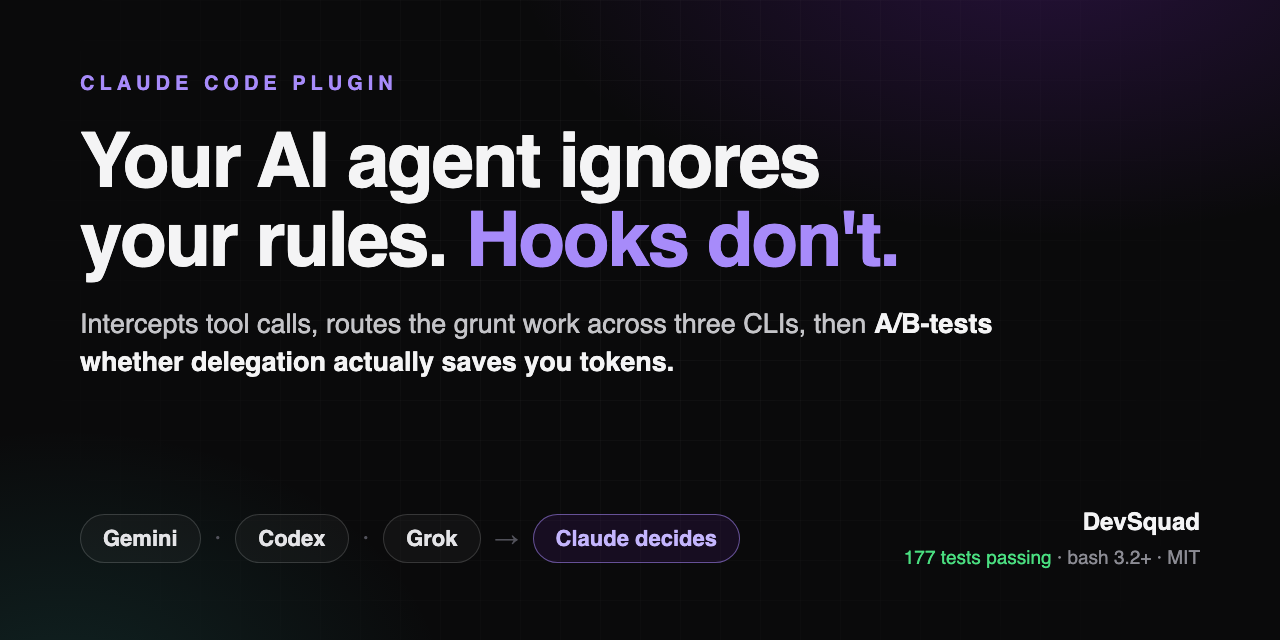
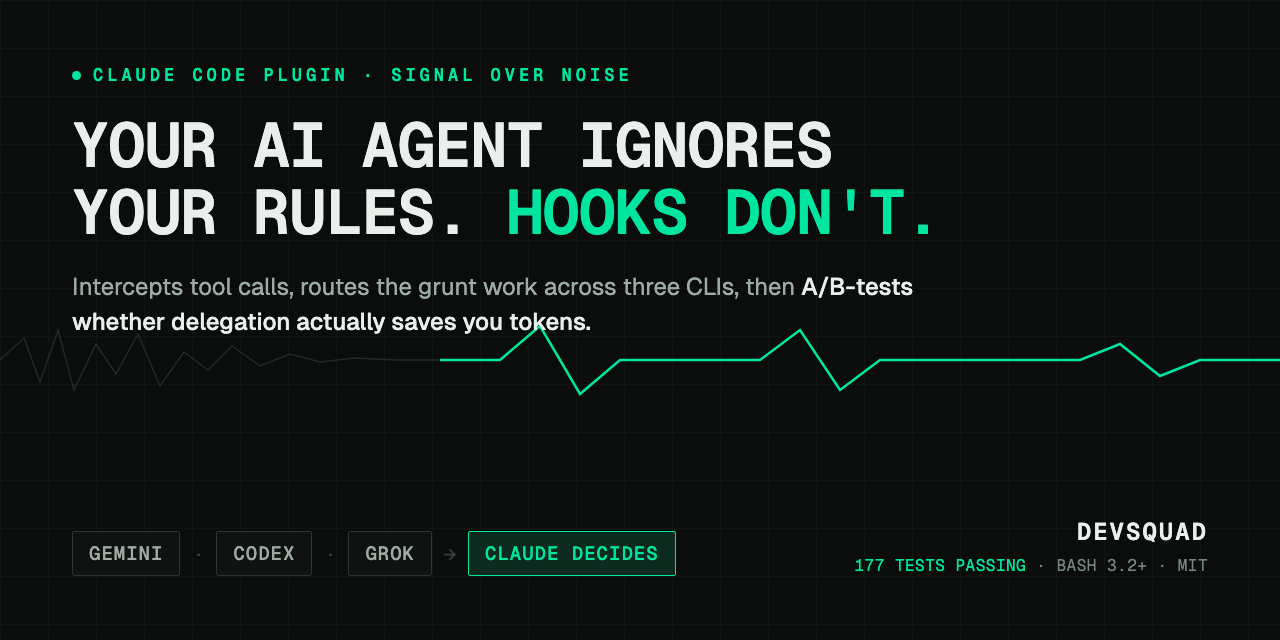
design: rebuild social-preview card to Signal-over-Noise brand system
Prior card used off-brand generic purple + pill shapes. Rebuilt to the
dikshantjoshi-design 'Instrument' guidelines (tokens lifted verbatim from
styles.css :root):
- Night Bench near-black #0A0D0C, single phosphor accent #00E5A0
- Geist Mono UPPERCASE display (the instrument speaks in mono)
- 1px hairline sharp-corner role-tags (border-color state, never pills/fills)
- no shadows; faint calibration grid
- the signature move made literal: noise (left) resolving into a clean
  phosphor signal (right)
Fonts are render inputs (gitignored); the PNG bakes them in.

diff --git a/docs/assets/social-preview.html b/docs/assets/social-preview.html
@@ -3,82 +3,126 @@
 <head>
 <meta charset="utf-8">
 <style>
+  /* Signal over Noise — The Instrument · Night Bench · phosphor #00E5A0
+     Tokens lifted verbatim from dikshantjoshi-design styles.css :root.
+     To re-render: place Geist-Variable.ttf + GeistMono-Variable.ttf beside
+     this file (from the dikshantjoshi-design skill's fonts/), then headless
+     Chrome --screenshot at --window-size=1280,640. The .ttf files are render
+     inputs, not committed (the PNG bakes the fonts in). */
+  @font-face {
+    font-family: "Geist Mono";
+    src: url("GeistMono-Variable.ttf") format("truetype-variations");
+    font-weight: 100 900;
+  }
+  @font-face {
+    font-family: "Geist";
+    src: url("Geist-Variable.ttf") format("truetype-variations");
+    font-weight: 100 900;
+  }
+  :root {
+    --bg: #0A0D0C; --bg-subtle: #0E1210; --surface: #0E1210;
+    --fg: #E9EFEA; --fg-muted: #9DACA3; --fg-subtle: #75857B; --fg-faint: #38423D;
+    --border: #1E2622; --border-strong: #2C3630;
+    --accent: #00E5A0; --accent-fg: #06231A; --accent-dim: #0D2A1F;
+    --font-mono: "Geist Mono", ui-monospace, monospace;
+    --font-sans: "Geist", system-ui, sans-serif;
+  }
   * { margin: 0; padding: 0; box-sizing: border-box; }
   html, body { width: 1280px; height: 640px; }
   body {
-    font-family: -apple-system, "SF Pro Display", "Segoe UI", Helvetica, Arial, sans-serif;
-    background: #0a0a0b;
-    background-image:
-      radial-gradient(900px 500px at 82% -10%, rgba(138,43,226,0.22), transparent 60%),
-      radial-gradient(700px 500px at 5% 110%, rgba(56,189,180,0.14), transparent 55%);
-    color: #f4f4f5;
+    background: var(--bg);
+    color: var(--fg);
     width: 1280px; height: 640px;
-    padding: 72px 80px;
+    padding: 64px 72px;
     display: flex; flex-direction: column; justify-content: space-between;
-    position: relative;
-    overflow: hidden;
+    position: relative; overflow: hidden;
+    font-family: var(--font-sans);
   }
+  /* faint measurement grid — calibration field, not decoration */
   .grid {
     position: absolute; inset: 0;
     background-image:
-      linear-gradient(rgba(255,255,255,0.03) 1px, transparent 1px),
-      linear-gradient(90deg, rgba(255,255,255,0.03) 1px, transparent 1px);
-    background-size: 40px 40px;
-    mask-image: radial-gradient(circle at 50% 40%, black, transparent 85%);
+      linear-gradient(var(--border-faint, #161C19) 1px, transparent 1px),
+      linear-gradient(90deg, var(--border-faint, #161C19) 1px, transparent 1px);
+    background-size: 48px 48px;
+    opacity: 0.5;
   }
-  .top { position: relative; z-index: 2; }
+  /* the signature move: noise (left) resolving into signal (right) */
+  .trace { position: absolute; left: 0; right: 0; top: 300px; height: 120px; z-index: 1; }
+  .frame { position: relative; z-index: 2; }
+
   .eyebrow {
-    font-size: 20px; letter-spacing: 5px; text-transform: uppercase;
-    color: #a78bfa; font-weight: 700; margin-bottom: 26px;
+    font-family: var(--font-mono); font-weight: 600;
+    font-size: 17px; letter-spacing: 4px; text-transform: uppercase;
+    color: var(--accent); display: flex; align-items: center; gap: 12px;
   }
+  .led { width: 9px; height: 9px; border-radius: 50%; background: var(--accent); }
+
   h1 {
-    font-size: 76px; line-height: 1.04; font-weight: 800;
-    letter-spacing: -2px; max-width: 1000px;
+    font-family: var(--font-mono); font-weight: 600; text-transform: uppercase;
+    font-size: 62px; line-height: 1.08; letter-spacing: -1px;
+    margin-top: 26px; color: var(--fg);
   }
-  h1 .em { color: #a78bfa; }
+  h1 .em { color: var(--accent); }
+
   .sub {
-    margin-top: 26px; font-size: 27px; line-height: 1.4; color: #c4c4c8;
-    max-width: 940px; font-weight: 400;
+    margin-top: 24px; font-size: 24px; line-height: 1.45; color: var(--fg-muted);
+    max-width: 900px; font-weight: 400;
   }
-  .sub b { color: #f4f4f5; font-weight: 600; }
-  .bottom {
-    position: relative; z-index: 2;
-    display: flex; align-items: center; justify-content: space-between;
+  .sub b { color: var(--fg); font-weight: 500; }
+
+  .bottom { display: flex; align-items: flex-end; justify-content: space-between; }
+  .flow { display: flex; align-items: center; gap: 12px; }
+  /* role-tag: 1px hairline, sharp corner, border-color = state. NEVER a pill/fill. */
+  .tag {
+    font-family: var(--font-mono); font-weight: 500; font-size: 19px;
+    text-transform: uppercase; letter-spacing: 1px;
+    padding: 9px 16px; border: 1px solid var(--border-strong); border-radius: 2px;
+    color: var(--fg-muted); background: var(--surface);
   }
-  .clis { display: flex; gap: 14px; align-items: center; }
-  .pill {
-    font-size: 22px; font-weight: 600; padding: 11px 22px;
-    border: 1.5px solid rgba(255,255,255,0.16); border-radius: 999px;
-    color: #e4e4e7; background: rgba(255,255,255,0.03);
+  .tag.on { border-color: var(--accent); color: var(--accent); background: var(--accent-dim); }
+  .arrow { color: var(--fg-faint); font-family: var(--font-mono); font-size: 20px; }
+
+  .readout { text-align: right; font-family: var(--font-mono); }
+  .readout .repo {
+    font-size: 24px; font-weight: 600; text-transform: uppercase;
+    letter-spacing: 2px; color: var(--fg);
   }
-  .arrow { color: #52525b; font-size: 24px; }
-  .pill.claude { border-color: rgba(167,139,250,0.55); color: #c4b5fd; background: rgba(138,43,226,0.10); }
-  .meta { text-align: right; }
-  .meta .repo { font-size: 24px; font-weight: 700; color: #f4f4f5; }
-  .meta .badges { margin-top: 10px; font-size: 19px; color: #8b8b93; font-weight: 500; }
-  .meta .badges .g { color: #4ade80; }
+  .readout .stat {
+    margin-top: 8px; font-size: 16px; color: var(--fg-subtle); letter-spacing: 0.5px;
+  }
+  .readout .stat .g { color: var(--accent); }
 </style>
 </head>
 <body>
   <div class="grid"></div>
-  <div class="top">
-    <div class="eyebrow">Claude Code Plugin</div>
+  <svg class="trace" viewBox="0 0 1280 120" preserveAspectRatio="none">
+    <!-- noise on the left dissolving into a clean phosphor signal on the right -->
+    <polyline fill="none" stroke="#38423D" stroke-width="1.5" opacity="0.55"
+      points="0,60 24,38 40,82 58,30 74,90 96,44 116,74 138,34 160,86 184,52 208,70 232,46 260,66 290,54 320,62 355,58 395,60 440,60" />
+    <polyline fill="none" stroke="#00E5A0" stroke-width="2.5"
+      points="440,60 500,60 540,26 580,94 620,60 700,60 760,60 800,30 840,90 880,60 1000,60 1080,60 1120,44 1160,76 1200,60 1280,60" />
+  </svg>
+
+  <div class="frame">
+    <div class="eyebrow"><span class="led"></span> Claude Code Plugin · Signal over Noise</div>
     <h1>Your AI agent ignores<br>your rules. <span class="em">Hooks don't.</span></h1>
     <div class="sub">Intercepts tool calls, routes the grunt work across three CLIs, then <b>A/B-tests whether delegation actually saves you tokens.</b></div>
   </div>
-  <div class="bottom">
-    <div class="clis">
-      <span class="pill">Gemini</span>
+
+  <div class="frame bottom">
+    <div class="flow">
+      <span class="tag">Gemini</span>
       <span class="arrow">·</span>
-      <span class="pill">Codex</span>
+      <span class="tag">Codex</span>
       <span class="arrow">·</span>
-      <span class="pill">Grok</span>
+      <span class="tag">Grok</span>
       <span class="arrow">→</span>
-      <span class="pill claude">Claude decides</span>
+      <span class="tag on">Claude decides</span>
     </div>
-    <div class="meta">
+    <div class="readout">
       <div class="repo">DevSquad</div>
-      <div class="badges"><span class="g">177 tests passing</span> · bash 3.2+ · MIT</div>
+      <div class="stat"><span class="g">177 TESTS PASSING</span> · BASH 3.2+ · MIT</div>
     </div>
   </div>
 </body>
